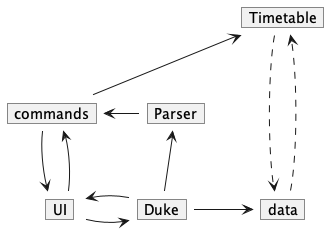
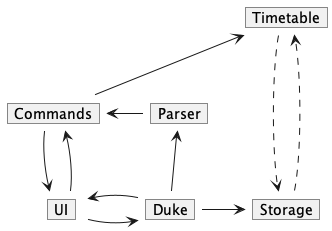
Add content page to dg

diff --git a/src/main/java/seedu/duke/Duke.java b/src/main/java/seedu/duke/Duke.java
@@ -9,7 +9,7 @@ import java.util.logging.LogManager;
 import java.util.logging.FileHandler;
 import java.util.logging.ConsoleHandler;
 
-import seedu.duke.data.DataManager;
+import seedu.duke.Storage.DataManager;
 
 public class Duke {
     private static final String EXIT_FLAG = "quit";

diff --git a/src/test/java/seedu/duke/Storage/DataManagerTest.java b/src/test/java/seedu/duke/Storage/DataManagerTest.java
@@ -1,9 +1,8 @@
-package seedu.duke.data;
+package seedu.duke.Storage;
 
 import org.junit.jupiter.api.AfterAll;
 import org.junit.jupiter.api.BeforeAll;
 import org.junit.jupiter.api.Test;
-import seedu.duke.Parser;
 
 import static org.junit.jupiter.api.Assertions.assertEquals;
 

diff --git a/src/main/java/seedu/duke/Storage/ModuleManager.java b/src/main/java/seedu/duke/Storage/ModuleManager.java
@@ -1,4 +1,4 @@
-package seedu.duke.data;
+package seedu.duke.Storage;
 
 import seedu.duke.Exceptions;
 import seedu.duke.commands.CommandAddModule;

diff --git a/src/main/java/seedu/duke/Storage/DataManager.java b/src/main/java/seedu/duke/Storage/DataManager.java
@@ -1,4 +1,4 @@
-package seedu.duke.data;
+package seedu.duke.Storage;
 
 import java.io.File;
 import java.io.FileNotFoundException;

diff --git a/src/main/java/seedu/duke/Storage/AttendingManager.java b/src/main/java/seedu/duke/Storage/AttendingManager.java
@@ -1,4 +1,4 @@
-package seedu.duke.data;
+package seedu.duke.Storage;
 
 import java.io.File;
 import java.io.FileWriter;

diff --git a/docs/DeveloperGuide.md b/docs/DeveloperGuide.md
@@ -1,14 +1,36 @@
 # Developer Guide
+### Table of Contents
+- [1. Acknowledgements](#1-acknowledgements)
+- [2. Introduction](#2-introduction)
+- [3. Design and Implementation](#3-design-and-implementation)
+    - [3.1. Architecture](#31-architecture)
+    - [3.1. Timetable Class](#32-timetable-class)
+- [4. Key Features](#4-key-features)
+    - [4.1. Adding modules to current timetable](#41-adding-modules-to-current-timetable)
+    - [4.2. Setting lessons for individual modules](#42-setting-lessons-for-individual-modules)
+    - [4.3. Auto-allocating lessons](#43-auto-allocating-lessons)
+    - [4.4. Printing the timetable](#44-printing-the-timetable)
+    - [4.5. Listing current modules](#45-listing-current-modules)
+    - [4.6. Getting info on modules](#46-getting-info-on-modules)
+    - [4.7. Deleting modules from timetable](#47-deleting-modules-from-timetable)
+    - [4.8. Storage](#48-storage)
+- [5. Product Scope](#5-product-scope)
+    - [5.1. Target user profile](#51-target-user-profile)
+    - [5.2. Value proposition](#52-value-proposition)
+- [6. User Stories](#6-user-stories)
+- [7. Non-Functional Requirements](#7-non-functional-requirements)
+- [8. Glossary](#8-glossary)
+- [9. Instructions for manual testing](#9-instructions-for-manual-testing)
 
-## Acknowledgements
+### 1. Acknowledgements
 Ideas for this project partly comes from NUSmods at https://nusmods.com/
 
 API and library used includes the following:
 - [NUSMods API](https://api.nusmods.com/v2/) - To extract information about modules in NUS
 - [FasterXML](https://github.com/FasterXML/jackson) - Helps parse json files from the NUSMods API
 
-## Design & implementation
-#### Architecture
+### 3. Design and Implementation
+#### 3.1. Architecture
 <img src="images/architectureDiagram.png" width="280" />
 
 
@@ -16,18 +38,23 @@ The ***Architecture Diagram*** given above presents the high-level design of the
 1. `Duke`: Initialised when launch and acts as the main logic component of the program.
 2. `UI`: Handles all user interaction, including printing responses and receiving user inputs.
 3. `Parser`: Parses main user commands and calls for appropriate functions.
-4. `commands`: Exists as a package which includes all command functions.
+4. `Commands`: Exists as a package which includes all command functions (explained below under each individual features).
 5. `Timetable`: Contains all the data in the current session. (Data can only be accessed and manipulated by commands)
-6. `data`: Manages the saving and loading of the current session data.
+6. `Storage`: Manages the saving and loading of the current session data.
 7. `Nusmods`: Handles all communication to the NUSMods API and extracts useful information that is used for the rest of
    the program.
 
-<p style='text-align: justify;'>The design of the product focuses on low coupling and high cohesion. Following as closely to the Single Responsibility Principle (SRP) as possible, each major component explained above has unique roles which is not overlapped by another component. For example, printing of all responses go through the UI class, which handles all interactions with user, including the display of program responses.</p>
+<p style='text-align: justify;'>The software design follows as closely to the Single Responsibility Principle (SRP) as possible. Each major component explained above have unique roles which is not overlapped by another component. For example, printing of all responses go through the UI class, which handles all interactions with user, including the display of program responses.</p>
 
 ---
 
-#### Key Features
-##### Adding modules to current timetable
+#### 3.2. Timetable Class
+Class diagram for timetable class to go here
+
+---
+
+### 4. Key Features
+#### 4.1. Adding modules to current timetable
 <img src="images/addModule.png" width="580" />
 
 The ***Sequence Diagram*** above is a simplified depiction of how new modules are added to the user current session timetable. The feature is rather complex due to the need to query, extract, and check the data before adding it to the timetable. Thus, a few design decisions were made:</p>
@@ -37,6 +64,7 @@ The ***Sequence Diagram*** above is a simplified depiction of how new modules ar
 * Any particular module is only added to the current session timetable through the Timetable class after all relevant data has been extracted, packaged and checked.
 * Module object consists of all relevant data for the module, including code, name, details, all available lessons, and lessons that is to be attented by the user.
 
+**Design Decision:**
 <p style='text-align: justify;'>The class CommandAddModule provides control abstraction to the comlpex operation as it abstracts away lower level data items such as the day and time of a specific tutorial class for a particular module.</p>
 
 <p style='text-align: justify;'>By having a separate class Nusmods deal with all API calls and JsonNode objects, it allows the other classes/components to only have to work with simpler data types and native objects (such as Module and Lesson objects).</p>
@@ -49,24 +77,49 @@ The ***Sequence Diagram*** above is a simplified depiction of how new modules ar
 
 ---
 
-#### Data
-The `data` component:
+#### 4.2. Setting lessons for individual modules
+
+---
+
+#### 4.3. Auto-allocating lessons
+
+---
+
+#### 4.4. Printing the timetable
+
+---
+
+#### 4.5. Listing current modules
+
+---
+
+#### 4.6. Getting info on modules
+
+---
+
+#### 4.7. Deleting modules from timetable
+
+---
+
+#### 4.8. Storage
+**The `Storage` component:**
 * Saves module and information on which lessons the user is attending into a text file which is read during a app relaunch.
 * Makes the API calls based on which modules were present in the previous save.
 * Has 3 static classes that manage data:
-  * `DataManager`: Handles and manages the saving and loading of data. It uses the other two classes to do so.
-  * `ModuleManager`: Handles information regarding the modules the user has selected. Information is stored in `ModuleData.txt`
-  * `AttendingManager`: Handles information regarding the lessons the user is attending. Information is stored in `AttendingData.txt`
+    * `DataManager`: Handles and manages the saving and loading of data. It uses the other two classes to do so.
+    * `ModuleManager`: Handles information regarding the modules the user has selected. Information is stored in `ModuleData.txt`
+    * `AttendingManager`: Handles information regarding the lessons the user is attending. Information is stored in `AttendingData.txt`
 
-Design Decision:
+**Design Decision:**
 * The data component is designed in such a way where there is a balance between how much data is stored and how easy it is to manage the data.
 * An alternative approach is to hardsave the entire session data, including lesson information, into a text file. However, this introduces additonal steps to parse the data and makes the code less readable and more prone to bugs.
 * The method which uses API calls is chosen. This reduces the amount of data that needs to be written into the textfile and allows for reusing the addModule function of the program.
-* The drawback of this is that the API call msut be successful and internet connection is required.
+* The drawback of this is that the API call must be successful and internet connection is required.
 
+---
 
-## Product scope
-### Target user profile
+### 5. Product scope
+#### 5.1. Target user profile
 
 The target user profile is as follows:
 * Comfortable with using Desktop CLI apps
@@ -75,11 +128,11 @@ The target user profile is as follows:
 * Takes official valid NUS modules
 * Has a need to manage and plan his/her timetable
 
-### Value proposition
+#### 5.2. Value proposition
 
 The value proposition of the product lies in its ability to aid the management and planning of a university timetable containing NUS modules.
 
-## User Stories
+### 6. User Stories
 
 | Version | As a ...     | I want to ...                                                  | So that I can ...                                             |
 |---------|--------------|----------------------------------------------------------------|---------------------------------------------------------------|
@@ -91,23 +144,23 @@ The value proposition of the product lies in its ability to aid the management a
 | v1.0    | NUS Student  | Preserve my timetable information across program runs          | Plan my timetable once and never have to worry about it again |
 | v2.0    | user         | find a to-do item by name                                      | locate a to-do without having to go through the entire list   |
 
-## Non-Functional Requirements
+### 7. Non-Functional Requirements
 
 1. Program should run on any mainstream OS that runs Java 11 and have a stable internet connection
 2. Users should be able to easily use all functionalities if they have a general idea of module codes in NUS.
 
-## Glossary
+### 8. Glossary
 
 * *glossary item* - Definition
 
-## Instructions for manual testing
+### 9. Instructions for manual testing
 
 Given below are instructions to test the app manually.
 
 **Note:** These instructions only provide a starting point for testers to work on;
 testers are expected to do more *exploratory* testing.
 
-#### Launch and shutdown
+##### Launch and shutdown
 
 1. Ensure that you have Java 11 or above installed.
 2. Down the latest version of `tp` from [here](http://link.to/duke).
@@ -116,35 +169,35 @@ testers are expected to do more *exploratory* testing.
 5. Run the command `java -jar tp.jar` in the same folder.
 6. To shutdown, either enter `0` when prompted to enter a semester, or `quit` as a command in the main program.
 
-#### Adding a module
+##### Adding a module
 
 1. Adding a module when module already exists in Timetable
 
-  1. Prerequisites: List all persons using the `list` command. There should already exist the module that is to be double added.
+1. Prerequisites: List all persons using the `list` command. There should already exist the module that is to be double added.
 
-  2. Test case: `add`, then `exampleModuleCode`
-       Expected: Module should not be double added. Use `list` command again to check.
-       
-#### Deleting a module
+2. Test case: `add`, then `exampleModuleCode`
+   Expected: Module should not be double added. Use `list` command again to check.
+
+##### Deleting a module
 1. Deleting a module when module already exists in Timetable
 
-   1. Prerequisites: List all persons using the `list` command. There should already exist the module that is to be deleted.
-   
-   2. Test case: `delete`, then `exampleModuleCode`
-       Expected: Module should be deleted. Use `list` command again to check.
-   
-   3. If there is no module in the list, user will be prompt that no module exists in the list.
+    1. Prerequisites: List all persons using the `list` command. There should already exist the module that is to be deleted.
 
-### Saving data
+    2. Test case: `delete`, then `exampleModuleCode`
+       Expected: Module should be deleted. Use `list` command again to check.
+
+    3. If there is no module in the list, user will be prompt that no module exists in the list.
+
+##### Saving data
 
 1. Dealing with missing data files
-  - Make a manual deletion of any saved data file with either name `Sem1DataDirectory` or `Sem2DataDirectory`.
-  - Run the program, there should not be any errors and a new directory with the correct files should be created.
+- Make a manual deletion of any saved data file with either name `Sem1Data` or `Sem2Data`.
+- Run the program, there should not be any errors and a new directory with the correct files should be created.
 
 2. Dealing with corrupted module data files
-  - Add "abc" as a random string inside the data file `ModuleData.txt`.
-  - Run the program and enter the semester corresponding to the data file. The program should quit and indicate that the API call failed.
+- Add "abc" as a random string inside the data file `ModuleData.txt`.
+- Run the program and enter the semester corresponding to the data file. The program should quit and indicate that the API call failed.
 
 3. Dealing with corupted attending data files
-  - Add "abc" as a random string inside the data file `AttendingData.txt`.
-  - Run the program and enter the semester corresponding to the data file. The program should quit and indicate that there is file corruption.
+- Add "abc" as a random string inside the data file `AttendingData.txt`.
+- Run the program and enter the semester corresponding to the data file. The program should quit and indicate that there is file corruption.
